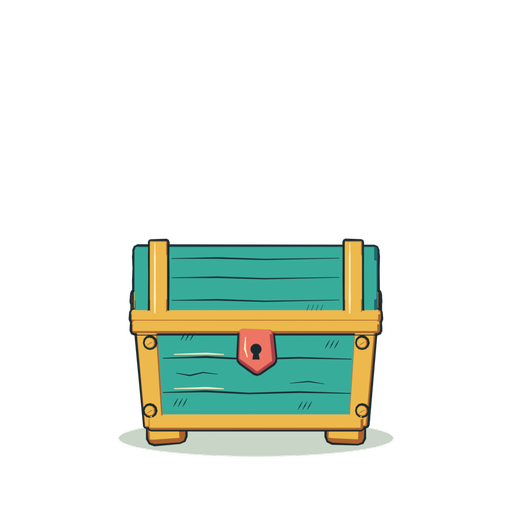
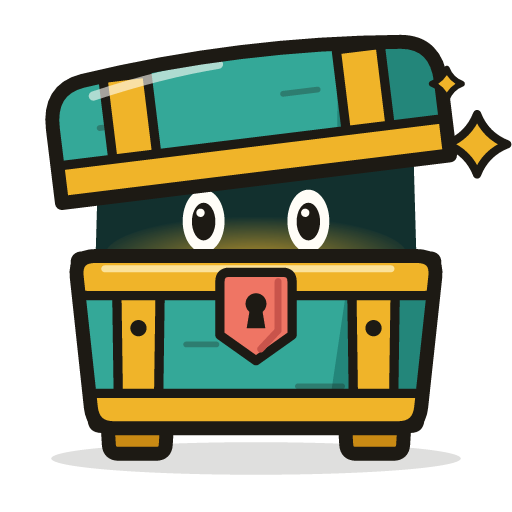
feat(web): show the chest character as the Unlisted box token image

diff --git a/packages/brand/scripts/files.tsx b/packages/brand/scripts/files.tsx
@@ -89,6 +89,7 @@ export function brandFiles(): BrandFile[] {
 	const stackedHeight = 320;
 	const wordHeight = 120;
 	const favicon = svg("favicon", <Favicon />);
+	const boxToken = svg("box", <ChestMark size={512} look={REST_FRAME.look} />);
 
 	return [
 		...vector(
@@ -172,7 +173,8 @@ export function brandFiles(): BrandFile[] {
 			),
 			width: 192,
 		},
-		// The site's stand-in cover, and the image every box token shows.
+		// The site's stand-in cover, and the image every box token shows on
+		// lootbox.so and in the Unlisted series.
 		{
 			kind: "svg",
 			path: "../../apps/platform/public/chest.svg",
@@ -184,7 +186,13 @@ export function brandFiles(): BrandFile[] {
 		{
 			kind: "png",
 			path: "../../apps/platform/public/box.png",
-			svg: svg("box", <ChestMark size={512} look={REST_FRAME.look} />),
+			svg: boxToken,
+			width: 512,
+		},
+		{
+			kind: "png",
+			path: "../../apps/web/public/metadata/box.png",
+			svg: boxToken,
 			width: 512,
 		},
 		{

diff --git a/apps/web/README.md b/apps/web/README.md
@@ -21,7 +21,7 @@ On localnet, `?treasury=<address>` overrides `VITE_TREASURY` so a series made in
 
 Opening burns one box and commits Switchboard randomness, waits for the oracle's reveal, settles the FIFO queue up to that opening, then plays the reaction for the recorded result. The flow is written against `OracleTransport` in `src/launch/oracle.ts`. Localnet injects the Surfpool mock oracle (`localOracle` in `src/lootbox/playground.ts`). Devnet and mainnet use `createSwitchboardOracle` from the SDK: `requestOpen` resolves per-randomness oracle accounts, and the reveal proof is fetched with a bounded abort signal so an outage leaves a resumable opening instead of a stuck page. A bundle holding only a mint-on-claim badge and at most 0.01 SOL is an empty box: it gets its own manifest row and the `disappointed` reaction. Prize mints the PreStocks catalog does not know show their Token-2022 metadata name and symbol.
 
-`.github/workflows/pages.yml` deploys this app to GitHub Pages at `/lootbox/` on every push to `main`, reading `VITE_SOLANA_CLUSTER`, `VITE_RPC_URL`, and `VITE_TREASURY` from repository variables. Set `LOOTBOX_WEB_BASE=/lootbox/` to reproduce that build locally; the `pages` Playwright project checks that every asset, clip, and metadata file resolves under the base path. `public/metadata/` holds the Metaplex-style JSON and images for the box token and the Empty Box badge.
+`.github/workflows/pages.yml` deploys this app to GitHub Pages at `/lootbox/` on every push to `main`, reading `VITE_SOLANA_CLUSTER`, `VITE_RPC_URL`, and `VITE_TREASURY` from repository variables. Set `LOOTBOX_WEB_BASE=/lootbox/` to reproduce that build locally; the `pages` Playwright project checks that every asset, clip, and metadata file resolves under the base path. `public/metadata/` holds the Metaplex-style JSON and images for the box token and the Empty Box badge. The box token image, `box.png`, is the brand chest; `pnpm --dir packages/brand export` writes it.
 
 Prize logos and prices come from PreStocks. The API sends no CORS headers, so the browser never calls it. Prices ship in `src/launch/prestocks-snapshot.json`, which the Pages workflow refreshes before each build with `node tools/snapshot-prestocks.ts` (keeping the committed snapshot if the API is down); the manifest shows the capture date. The chest is the brand character from `@pina-rs/lootbox-brand`, animated in code with the same motion as lootbox.so and the promo videos, so there are no clips to download.
 
